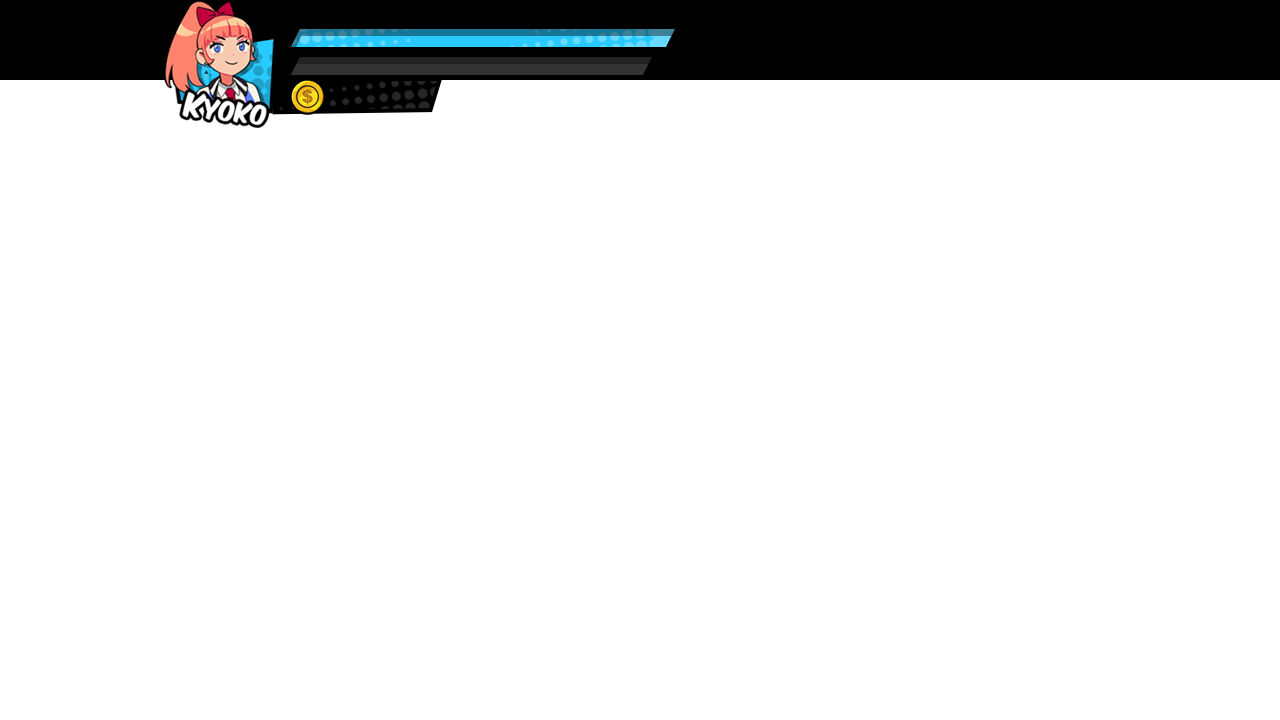
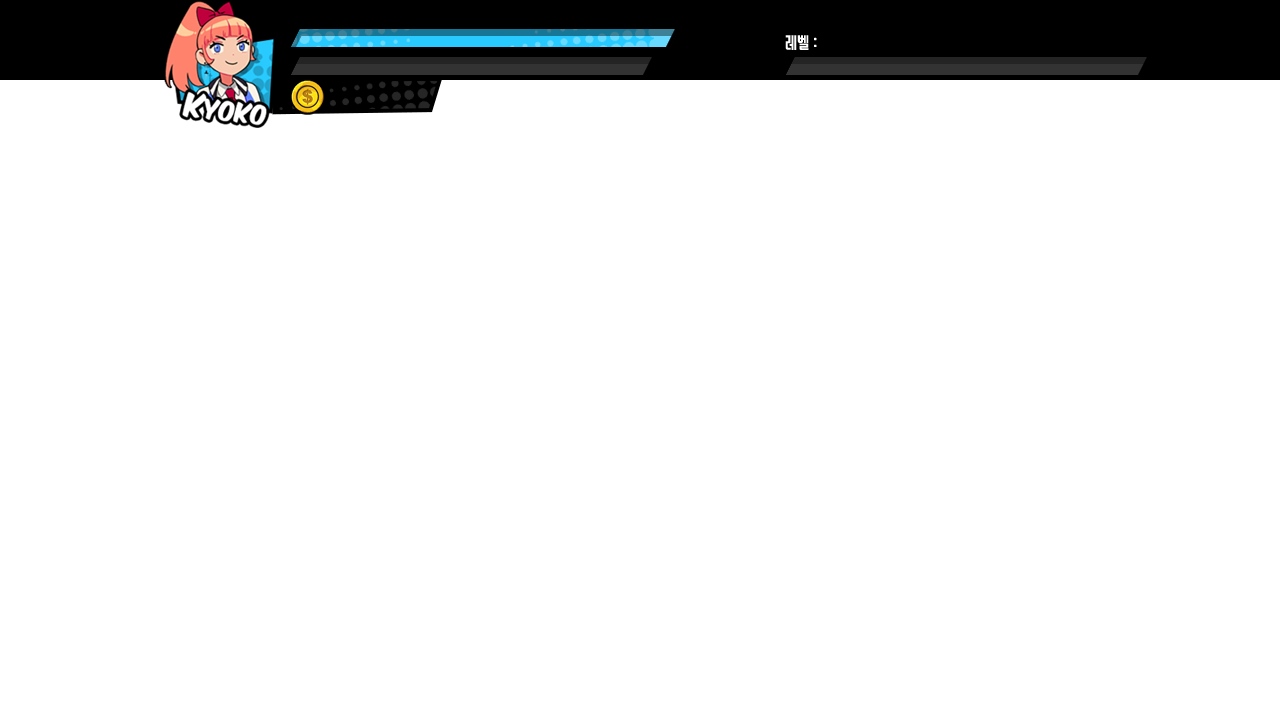
민경운 : 플레이어 레벨업 기능 업데이트

Changed region(s): [[0.5938, 0.0306, 0.9062, 0.1222]]

diff --git a/Dx2dGameMKU/GameEngineContents/HUD.h b/Dx2dGameMKU/GameEngineContents/HUD.h
@@ -2,6 +2,7 @@
 #include "UIBase.h"
 
 class GameEngineUIRenderer;
+class UIFontRenderer;
 
 class HUD : public UIBase
 {
@@ -30,10 +31,13 @@ private:
 	};
 
 	static MpDatas MpData;
+	static MpDatas ExpData;
 
 	std::vector<std::shared_ptr<GameEngineUIRenderer>> HealthBlocks;
-	float Timer = 0.f;
-	std::shared_ptr <class  UIFontRenderer> MoneyText = nullptr;
+	float MpTimer = 0.f;
+	float ExpTimer = 0.f;
+	std::shared_ptr <UIFontRenderer> MoneyText = nullptr;
+	std::shared_ptr <UIFontRenderer> LevelText = nullptr;
 
 	std::shared_ptr<GameEngineUIRenderer> FieldBackGround = nullptr;
 	std::shared_ptr<GameEngineUIRenderer> ShopBackGround = nullptr;
@@ -43,10 +47,14 @@ private:
 	void CreateShopBackGround();
 	void CreateHpBar();
 	void CreateMpBar();
+	void CreateExpBar();
 	void CreateMoneyText();
+	void CreateLevelText();
+
 
 	void Update_Hp();
 	void Update_Mp(float _DeltaTime);
+	void Update_Exp(float _DeltaTime);
 	void Update_Money();
 };
 

diff --git a/Dx2dGameMKU/GameEngineContents/CheerleaderState_Damaged_KnockDown.cpp b/Dx2dGameMKU/GameEngineContents/CheerleaderState_Damaged_KnockDown.cpp
@@ -1,6 +1,8 @@
 #include "PrecompileHeader.h"
 #include "CheerleaderState_Damaged_KnockDown.h"
 
+#include "DataMgr.h"
+
 #include "CheerleaderFSM.h"
 #include "FieldEnemyBase.h"
 #include "FieldMoney.h"
@@ -75,6 +77,7 @@ void CheerleaderState_Damaged_KnockDown::EnterState()
 
 	SoundMgr::PlaySFX("CheerLeader_KnockDown.wav");
 	EnemyState_DamagedBase::CreateMoney(MoneyType::Bill_Blue);
+	DataMgr::AddPlayerExp(20);
 }
 
 

diff --git a/Dx2dGameMKU/GameEngineContents/SchoolGirlState_Damaged_KnockDown.cpp b/Dx2dGameMKU/GameEngineContents/SchoolGirlState_Damaged_KnockDown.cpp
@@ -1,6 +1,8 @@
 #include "PrecompileHeader.h"
 #include "SchoolGirlState_Damaged_KnockDown.h"
 
+#include "DataMgr.h"
+
 #include "SchoolGirlFSM.h"
 #include "FieldEnemyBase.h"
 #include "FieldMoney.h"
@@ -75,6 +77,7 @@ void SchoolGirlState_Damaged_KnockDown::EnterState()
 
 	SoundMgr::PlaySFX("FemaleEnemy_KnockDown.wav");
 	EnemyState_DamagedBase::CreateMoney(MoneyType::Coin);
+	DataMgr::AddPlayerExp(20);
 }
 
 

diff --git a/Dx2dGameMKU/GameEngineContents/HooliganState_Damaged_KnockDown.cpp b/Dx2dGameMKU/GameEngineContents/HooliganState_Damaged_KnockDown.cpp
@@ -1,6 +1,8 @@
 #include "PrecompileHeader.h"
 #include "HooliganState_Damaged_KnockDown.h"
 
+#include "DataMgr.h"
+
 #include "HooliganFSM.h"
 #include "FieldEnemyBase.h"
 #include "FieldMoney.h"
@@ -75,6 +77,7 @@ void HooliganState_Damaged_KnockDown::EnterState()
 
 	SoundMgr::PlaySFX("MaleEnemy_KnockDown.wav");
 	EnemyState_DamagedBase::CreateMoney(MoneyType::Bill_Green);
+	DataMgr::AddPlayerExp(20);
 }
 
 

diff --git a/Dx2dGameMKU/GameEngineContents/TigerManState_Damaged_KnockDown.cpp b/Dx2dGameMKU/GameEngineContents/TigerManState_Damaged_KnockDown.cpp
@@ -1,6 +1,8 @@
 #include "PrecompileHeader.h"
 #include "TigerManState_Damaged_KnockDown.h"
 
+#include "DataMgr.h"
+
 #include "TigerManFSM.h"
 #include "FieldEnemyBase.h"
 #include "FieldMoney.h"
@@ -81,6 +83,7 @@ void TigerManState_Damaged_KnockDown::EnterState()
 
 	SoundMgr::PlaySFX("TigerMan_KnockDown.wav");
 	EnemyState_DamagedBase::CreateMoney(MoneyType::Bill_Pupple);
+	DataMgr::AddPlayerExp(20);
 }
 
 

diff --git a/Dx2dGameMKU/GameEngineContents/SchoolBoyState_Damaged_KnockDown.cpp b/Dx2dGameMKU/GameEngineContents/SchoolBoyState_Damaged_KnockDown.cpp
@@ -1,6 +1,8 @@
 #include "PrecompileHeader.h"
 #include "SchoolBoyState_Damaged_KnockDown.h"
 
+#include "DataMgr.h"
+
 #include "SchoolBoyFSM.h"
 #include "FieldEnemyBase.h"
 #include "FieldMoney.h"
@@ -75,6 +77,7 @@ void SchoolBoyState_Damaged_KnockDown::EnterState()
 
 	SoundMgr::PlaySFX("MaleEnemy_KnockDown.wav");
 	EnemyState_DamagedBase::CreateMoney(MoneyType::Coin);
+	DataMgr::AddPlayerExp(20);
 }
 
 

diff --git a/Dx2dGameMKU/GameEngineContents/WaverState_Damaged_KnockDown.cpp b/Dx2dGameMKU/GameEngineContents/WaverState_Damaged_KnockDown.cpp
@@ -1,6 +1,8 @@
 #include "PrecompileHeader.h"
 #include "WaverState_Damaged_KnockDown.h"
 
+#include "DataMgr.h"
+
 #include "WaverFSM.h"
 #include "FieldEnemyBase.h"
 #include "FieldMoney.h"
@@ -75,6 +77,7 @@ void WaverState_Damaged_KnockDown::EnterState()
 
 	SoundMgr::PlaySFX("CheerLeader_KnockDown.wav");
 	EnemyState_DamagedBase::CreateMoney(MoneyType::Bill_Green);
+	DataMgr::AddPlayerExp(20);
 }
 
 

diff --git a/Dx2dGameMKU/GameEngineContents/CopState_Damaged_KnockDown.cpp b/Dx2dGameMKU/GameEngineContents/CopState_Damaged_KnockDown.cpp
@@ -1,6 +1,8 @@
 #include "PrecompileHeader.h"
 #include "CopState_Damaged_KnockDown.h"
 
+#include "DataMgr.h"
+
 #include "CopFSM.h"
 #include "FieldEnemyBase.h"
 #include "FieldMoney.h"
@@ -75,6 +77,7 @@ void CopState_Damaged_KnockDown::EnterState()
 
 	SoundMgr::PlaySFX("MaleEnemy_KnockDown.wav");
 	EnemyState_DamagedBase::CreateMoney(MoneyType::Bill_Blue);
+	DataMgr::AddPlayerExp(20);
 }
 
 
